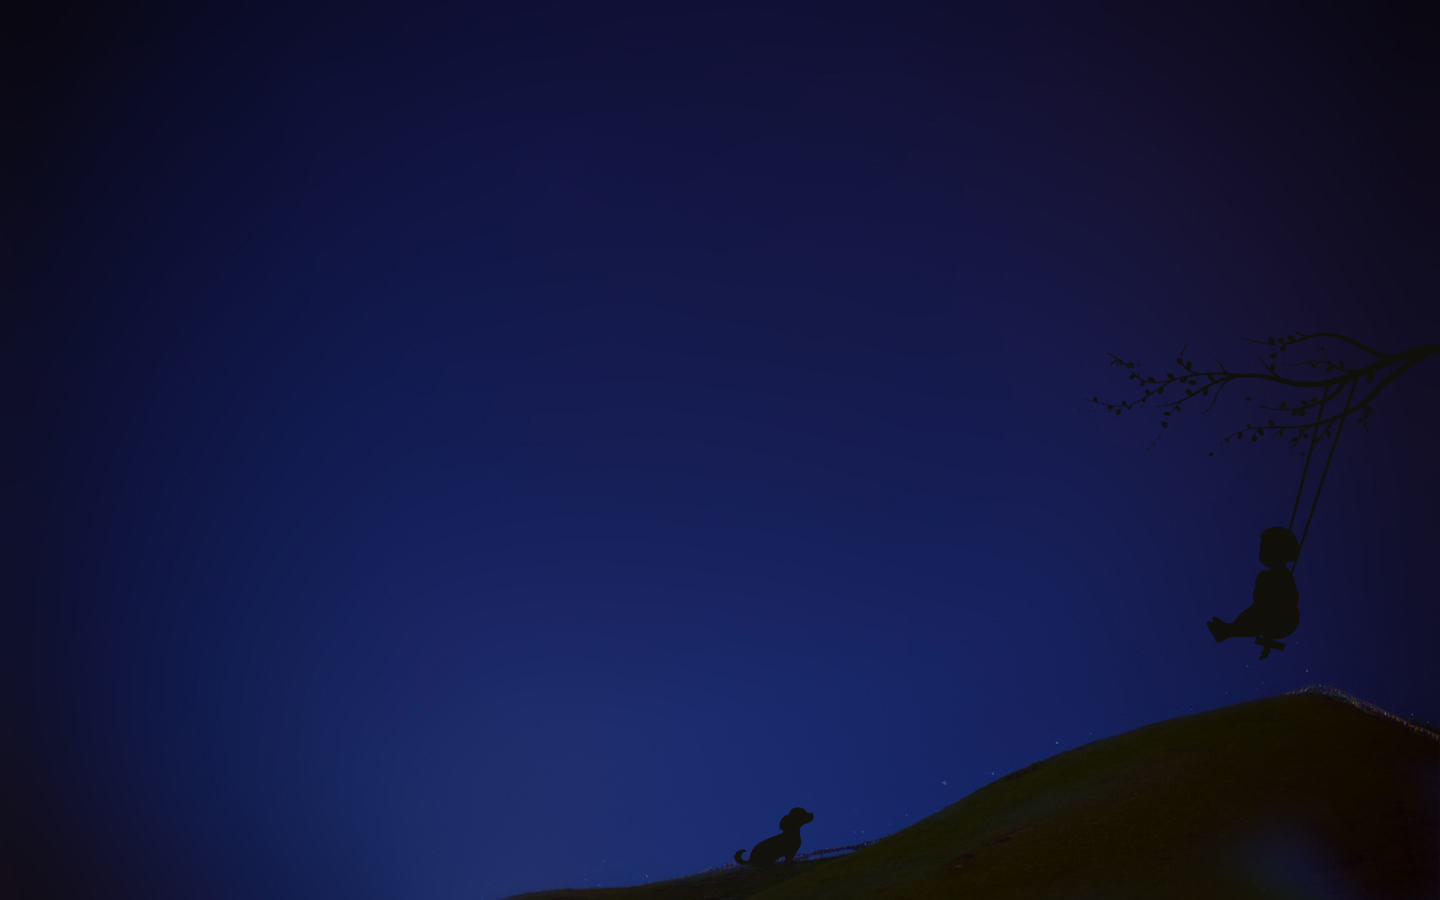
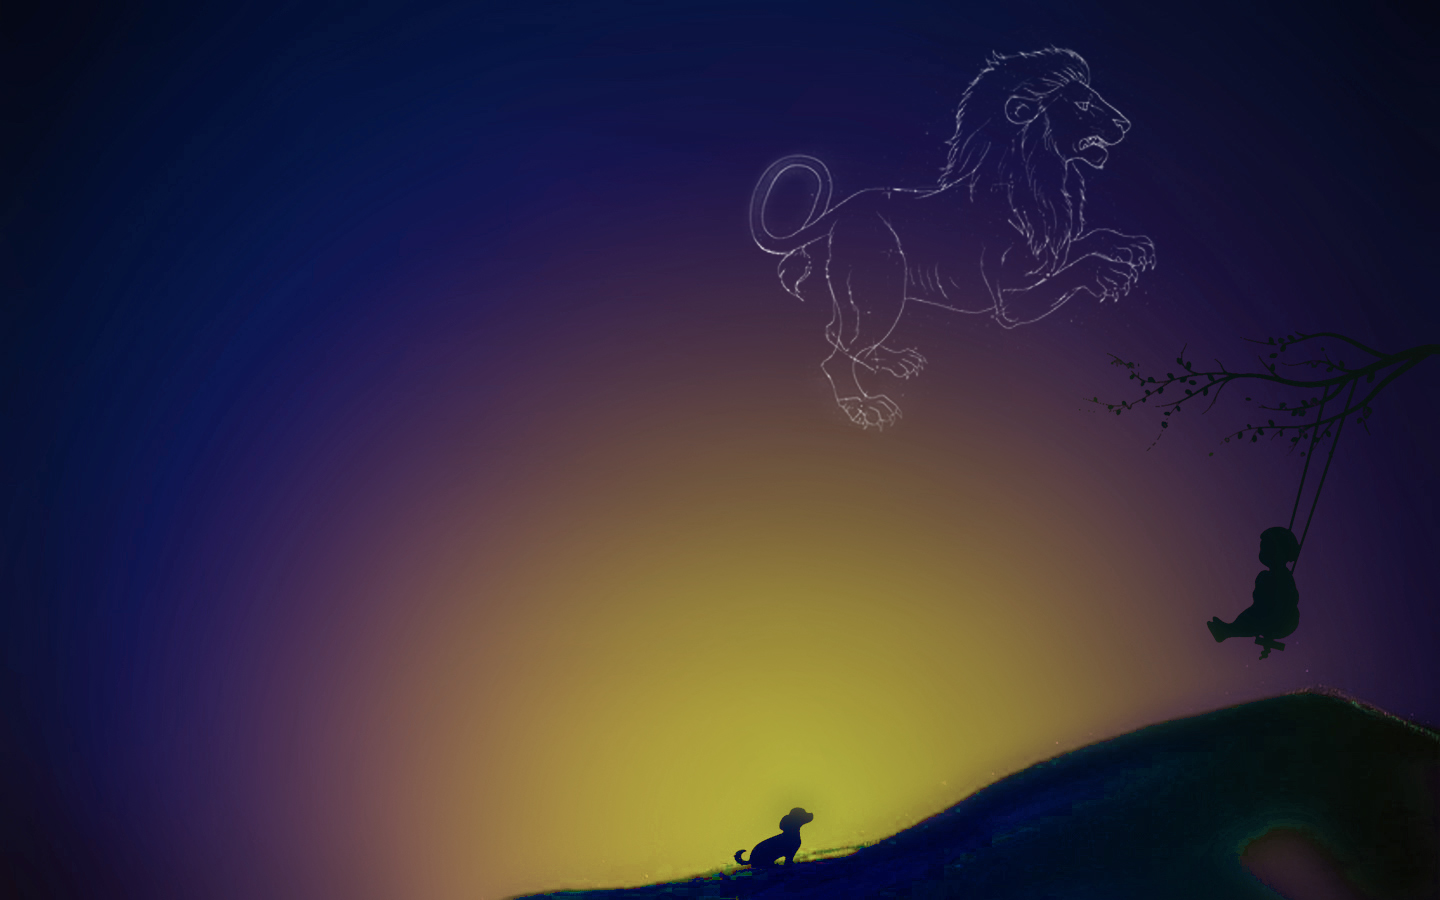
提交狮子座

diff --git a/src/pages/demo6/index.tsx b/src/pages/demo6/index.tsx
@@ -1,0 +1,255 @@
+import React, { HtmlHTMLAttributes } from "react";
+import { Color } from 'three'
+import { initShaders } from '../../utils/shader'
+import { getMousePosInWebgl, glToCssPos } from '../../utils/utils'
+import Poly from '../../utils/poly'
+import Sky from '../../utils/sky'
+import Track from '../../utils/Track'
+import { Compose } from '../../utils/Compose'
+import ReactAudioPlayer from 'react-audio-player';
+import './index.css'
+interface customWebGLRenderingContext extends WebGLRenderingContext {
+  program: WebGLProgram
+}
+interface initState {
+  gl: customWebGLRenderingContext
+  color: THREE.Color
+  canvas: HTMLCanvasElement
+  vertsxShader: string
+  fragmentShader: string
+}
+class Demo6 extends React.Component {
+  state: initState = {
+    gl: null,
+    color: null,
+    canvas: null,
+    vertsxShader: `
+      attribute vec4 a_attr;
+      varying float v_Alpha;
+      void main(){
+          gl_Position=vec4(a_attr.x,a_attr.y,0.0,1.0);
+          gl_PointSize=a_attr.z;
+          v_Alpha=a_attr.w;
+      }
+    `, // 顶点着色器
+    fragmentShader: `
+      precision mediump float;
+      uniform bool u_IsPOINTS;
+      varying float v_Alpha;
+      void main(){
+        if(u_IsPOINTS){
+          float dist=distance(gl_PointCoord,vec2(0.5,0.5));
+          if(dist<0.5){
+            gl_FragColor=vec4(0.87,0.91,1,v_Alpha);
+          }else{
+            discard;
+          }
+        }else{
+          gl_FragColor=vec4(0.87,0.91,1,v_Alpha);
+        }
+      }
+    `, // 片元着色器
+    // 要提前设置精度
+  }
+  initWebGl = (cb?: Function[]) => {
+    const canvas: any = document.getElementById('demo6_canvas')
+    canvas.width = window.innerWidth - 32 - 200
+    canvas.height = window.innerHeight
+    canvas.oncontextmenu = function() {
+      return false
+    }
+    const gl = canvas.getContext('webgl')
+    const color = new Color("burlywood")
+    const { vertsxShader, fragmentShader } = this.state 
+    initShaders(gl, vertsxShader, fragmentShader)
+    gl.clearColor(0, 0, 0, 0)
+    gl.clear(gl.COLOR_BUFFER_BIT);
+    this.setState({
+      gl,
+      color,
+      canvas,
+      // polyIns: new Poly({
+      //   types: ['POINTS', 'LINE_STRIP'],
+      //   gl,
+      // })
+    }, () => {
+      Array.isArray(cb) && cb.forEach((fn: Function) => {
+        typeof fn === 'function' && fn()
+      })
+    })
+  }
+
+  random = () => {
+    return Math.random() * 8 + 3;
+  }
+
+  createTrack = (obj: any, compose: any) => {
+    const { pointSize } = obj;
+    const track = new Track(obj);
+    track.start = new Date().valueOf();
+    track.timeLen = 2000;
+    track.loop = true;
+    track.keyMap = new Map([
+      [
+        "pointSize",
+        [
+          [500, pointSize],
+          [1000, 0],
+          [1500, pointSize]
+        ]
+      ],
+      [
+        "alpha",
+        [
+          [500, 1],
+          [1000, 0],
+          [1500, 1]
+        ]
+      ]
+    ])
+    compose.add(track)
+  }
+
+  createpoly = (x: number, y: number, point: any, skyIns: any, compose: any) => {
+    const o1 = point ? point : { x, y, pointSize: this.random(), alpha: 1 };
+    const o2 = { x, y, pointSize: this.random(), alpha: 1 };
+    const poly = new Poly({
+      size: 4,
+      geoData: [o1, o2],
+      attrName: 'a_attr',
+      types: ['POINTS', 'LINE_STRIP'],
+      circleDot: true
+    })
+    skyIns.add(poly);
+    this.createTrack(o1, compose);
+    this.createTrack(o2, compose);
+    return poly
+  }
+
+  addVertice = (x: number, y: number, point: any, compose: any, polyIns: any) => {
+    const { geoData } = polyIns;
+    if (point) {
+      geoData[geoData.length - 1] = point;
+    }
+    let obj = { x, y, pointSize: this.random(), alpha: 1};
+    geoData.push(obj);
+    this.createTrack(obj, compose);
+  }
+
+  popVertice = (polyIns: any, compose: any) => {
+    polyIns.geoData.pop();
+    compose.children.pop();
+  }
+
+  drawSky = (skyIns: any) => {
+    const { gl } = this.state
+    gl.clear(gl.COLOR_BUFFER_BIT)
+    skyIns.draw()
+  }
+
+  renderGl = (skyIns: any, gl: any) => {
+    gl.clear(gl.COLOR_BUFFER_BIT);
+    skyIns.draw()
+  }
+
+  initCanvasClick = () => {
+    const { canvas, gl } = this.state;
+    let polyIns: any = null;
+    let skyIns = new Sky(gl);
+    let point: any = null;
+    let compose: any = new Compose();
+    canvas.addEventListener('mousedown', ({ clientX, clientY, button }: { clientX: number, clientY: number, button: number }) => {
+      const { x, y } = getMousePosInWebgl({ clientX, clientY }, canvas);
+      if (button === 2) {
+        // 右击
+        if (polyIns) {
+          // polyIns.popVertice()
+          // polyIns = null
+          this.popVertice(polyIns, compose)
+          polyIns = null
+
+        }
+      } else {
+        if (polyIns) {
+          // polyIns.addVertice(x, y)
+          // this.drawSky(skyIns)
+          this.addVertice(x, y, point, compose, polyIns)
+        } else {
+          polyIns = this.createpoly(x, y, point, skyIns, compose)
+          // skyIns.add(polyIns)
+          // this.drawSky(skyIns)
+        }
+      }
+    })
+    canvas.addEventListener('mousemove', ({ clientX, clientY }: { clientX: number, clientY: number}) => {
+      const { canvas } = this.state
+      const { x, y } = getMousePosInWebgl({ clientX, clientY }, canvas);
+      point = this.hoverPoint(x, y, skyIns, polyIns)
+      if (point) {
+        canvas.style.cursor = "pointer";
+      } else {
+        canvas.style.cursor = "default";
+      }
+      if (polyIns) {
+        const obj = polyIns.geoData[polyIns.geoData.length - 1];
+        obj.x = x;
+        obj.y = y;
+      }
+      // if (polyIns) {
+      //   const { x, y } = getMousePosInWebgl({ clientX, clientY }, canvas);
+      //   polyIns.setVertice(polyIns.count - 1, x, y)
+      //   this.drawSky(skyIns)
+      // }
+    });
+    const that = this;
+    (function ani() {
+      compose.update(new Date().valueOf())
+      skyIns.updateVertices(['x', 'y', 'pointSize', 'alpha']);
+      that.renderGl(skyIns, gl);
+      requestAnimationFrame(ani)
+    })()
+    this.setState({
+      skyIns
+    })
+  }
+
+  hoverPoint = (mx: number, my: number, skyIns: any, polyIns: any) => {
+    for (const { geoData } of skyIns.children) {
+      for (const obj of geoData) {
+        if (polyIns && obj === polyIns.geoData[polyIns.geoData.length - 1]) {
+          continue;
+        }
+        const delta = {
+          x: mx - obj.x,
+          y: my - obj.y
+        }
+        const { x, y } = glToCssPos(delta, this.state.canvas);
+        const dist = x * x + y * y;
+        if (dist < 100) {
+          return obj
+        }
+      }
+    }
+    return null;
+  }
+
+  componentDidMount() {
+    this.initWebGl([
+      this.initCanvasClick
+    ])
+  }
+  render() {
+    return <div className="demo6">
+      <ReactAudioPlayer
+        src="http://yizxq.xyz/asstes/audio/cef.mp3"
+        autoPlay
+        loop
+        controls
+        className="audioBox"
+      />
+      <canvas className="demo6_canvas" id="demo6_canvas"></canvas>
+    </div>
+  }
+}
+
+export default Demo6

diff --git a/src/utils/poly.js b/src/utils/poly.js
@@ -6,6 +6,8 @@ const defaultAttr = () => ({
     attrName: 'a_position',
     types: ['POINTS'],
     count: 0,
+    circleDot: false,
+    u_IsPOINTS: null
 })
 
 export default class Poly {
@@ -14,7 +16,7 @@ export default class Poly {
         this.init()
     }
     init() {
-        const { gl, attrName, size } = this;
+        const { gl, attrName, size, circleDot } = this;
         if (!gl) {
             return
         }
@@ -28,6 +30,9 @@ export default class Poly {
         const a_Position = gl.getAttribLocation(gl.program, attrName);
         gl.vertexAttribPointer(a_Position, size, gl.FLOAT, false, 0, 0);
         gl.enableVertexAttribArray(a_Position)
+        if (circleDot) {
+            this.u_IsPOINTS = gl.getUniformLocation(gl.program, 'u_IsPOINTS')
+        }
     }
     updateBuffer() {
         const { gl, vertices } = this;
@@ -68,8 +73,9 @@ export default class Poly {
         this.vertices = vertices;
     }
     draw(types = this.types) {
-        const { gl, count } = this;
+        const { gl, count, circleDot, u_IsPOINTS } = this;
         types.forEach(type => {
+            circleDot && gl.uniform1f(u_IsPOINTS, type === 'POINTS')
             gl.drawArrays(gl[type], 0, count)
         })
     }

diff --git a/src/router/index.tsx b/src/router/index.tsx
@@ -11,6 +11,7 @@ import Demo2 from '../pages/demo2';
 import Demo3 from '../pages/demo3';
 import Demo4 from '../pages/demo4';
 import Demo5 from '../pages/demo5';
+import Demo6 from '../pages/demo6';
 function routerConfig() {
   return <Router>
     <Switch>
@@ -22,6 +23,7 @@ function routerConfig() {
             <Route path="/demo3" component={Demo3}></Route>
             <Route path="/demo4" component={Demo4}></Route>
             <Route path="/demo5" component={Demo5}></Route>
+            <Route path="/demo6" component={Demo6}></Route>
             <Redirect to="/demo1"></Redirect>
           </Switch>
         </MyLayout>

diff --git a/src/utils/utils.js b/src/utils/utils.js
@@ -9,7 +9,7 @@ function getMousePosInWebgl({ clientX, clientY }, canvas){
     cssY - halfHeight,
   ];
   // 解决y 方向的差异
-  const yBaseCenterTop = -yBaseCenter;
+  const yBaseCenterTop = - yBaseCenter;
   //解决坐标基底的差异
   return {
     x: xBaseCenter / halfWidth,
@@ -17,4 +17,12 @@ function getMousePosInWebgl({ clientX, clientY }, canvas){
   }
 }
 
-export { getMousePosInWebgl }
+function glToCssPos({x, y}, { width, height }) {
+  const [halfWidth, halfHeight] = [width / 2, height / 2];
+  return {
+    x: x * halfWidth,
+    y: - y * halfHeight
+  }
+}
+
+export { getMousePosInWebgl, glToCssPos }

diff --git a/src/pages/layout/index.tsx b/src/pages/layout/index.tsx
@@ -34,6 +34,9 @@ class MyLayout extends React.Component {
             <Menu.Item key="5">
               <Link to="/demo5">画多线</Link>
             </Menu.Item>
+            <Menu.Item key="6">
+              <Link to="/demo6">狮子座</Link>
+            </Menu.Item>
           </Menu>
         </Sider>
         <Layout className="site-layout">

diff --git a/src/pages/demo6/index.css b/src/pages/demo6/index.css
@@ -1,0 +1,18 @@
+.demo6_canvas {
+  width: 100%;
+  height: 100%;
+}
+.audioBox {
+  position: fixed;
+  right: 20px;
+  bottom: 20px;
+  /* opacity: 10%;
+  transition: opacity 200ms; */
+  z-index: 20;
+}
+.demo6 {
+  width: 100%;
+  height: 100%;
+  background: url(../../asstes/images/sky.jpg);
+  position: relative;
+}

diff --git a/src/pages/demo2/index.tsx b/src/pages/demo2/index.tsx
@@ -1,4 +1,4 @@
-import React, { HtmlHTMLAttributes } from "react";
+import React from "react";
 import { Color } from 'three'
 import { initShaders } from '../../utils/shader';
 import { Compose } from '../../utils/Compose';
